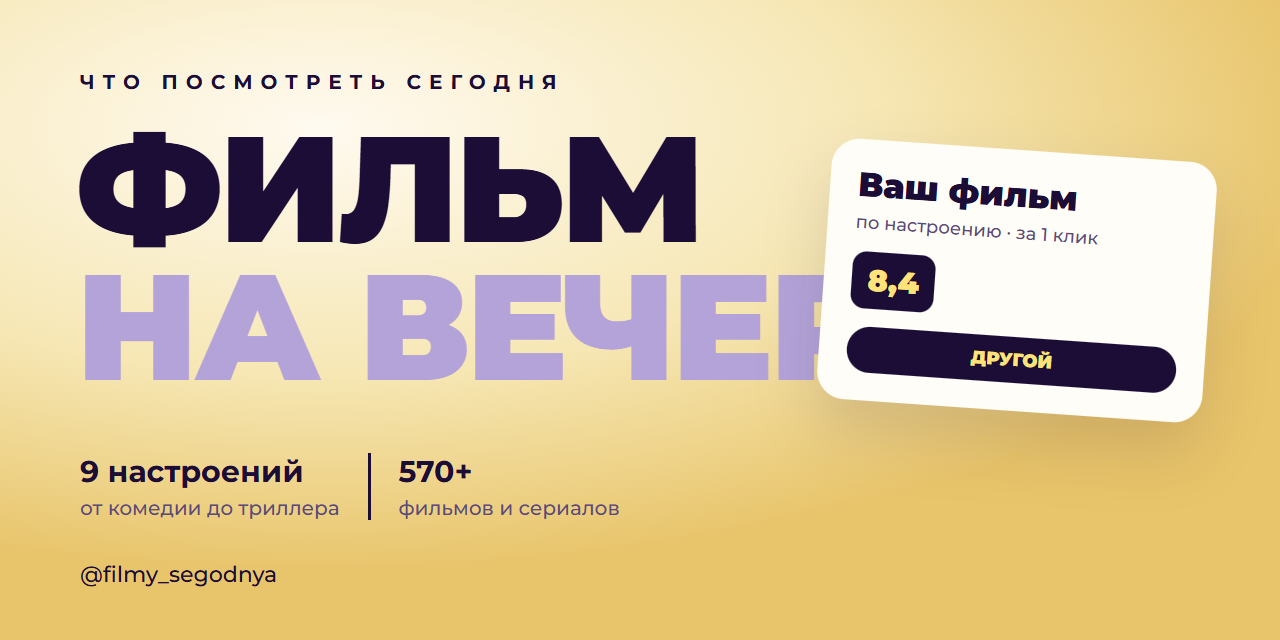
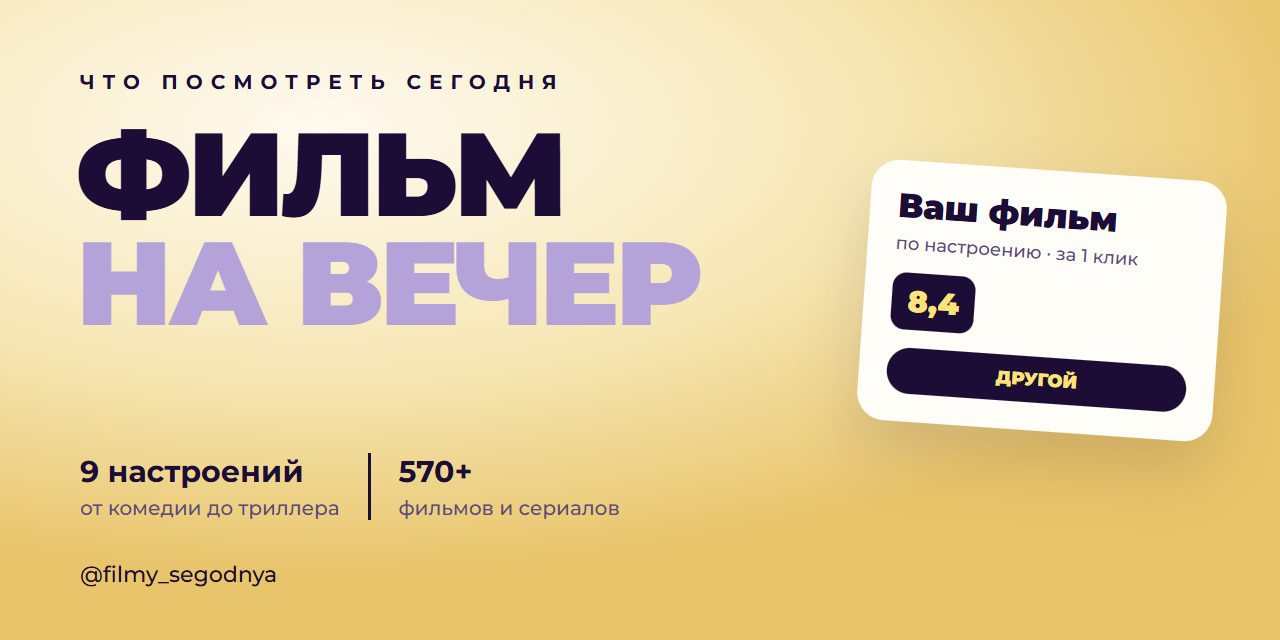
Превью без наложения

Changed region(s): [[0.0625, 0.1875, 0.9688, 0.6875]]

diff --git a/src/preview.html b/src/preview.html
@@ -1,11 +1,11 @@
 <!doctype html><html><head><meta charset="utf-8"><link href="https://fonts.googleapis.com/css2?family=Montserrat:wght@500;700;900&display=swap" rel="stylesheet"><style>
 html,body{margin:0}body{width:1280px;height:640px;overflow:hidden;font-family:Montserrat;color:#1b0d36;background:radial-gradient(ellipse 80% 70% at 25% 20%,#fffaf0 0%,#f6e7b4 55%,#e8c46a 100%);position:relative}
 .k{position:absolute;left:80px;top:70px;font-weight:700;font-size:20px;letter-spacing:8px}
-h1{position:absolute;left:76px;top:120px;margin:0;font-weight:900;font-size:150px;line-height:.92;letter-spacing:-4px}h1 span{display:block;color:#b4a3d8}
+h1{position:absolute;left:76px;top:120px;margin:0;font-weight:900;font-size:118px;line-height:.92;letter-spacing:-4px}h1 span{display:block;color:#b4a3d8}
 .r{position:absolute;left:80px;bottom:120px;display:flex}.i{padding:0 28px;border-left:3px solid #1b0d36}.i:first-child{padding-left:0;border:0}
 .i b{display:block;font-size:30px;font-weight:700}.i small{display:block;font-size:20px;color:#5b4a7a;margin-top:6px}
 .f{position:absolute;left:80px;bottom:52px;font-size:22px;font-weight:500}
-.card{position:absolute;right:70px;top:150px;width:330px;background:#fffdf7;border-radius:28px;padding:28px;box-shadow:0 30px 60px #1b0d3622;transform:rotate(4deg)}
+.card{position:absolute;right:60px;top:170px;width:300px;background:#fffdf7;border-radius:28px;padding:28px;box-shadow:0 30px 60px #1b0d3622;transform:rotate(4deg)}
 .card .t{font-size:34px;font-weight:900;line-height:1}.card .m{margin-top:10px;font-size:18px;color:#5b4a7a}.card .rt{margin-top:18px;display:inline-block;background:#1b0d36;color:#ffe27a;border-radius:14px;padding:10px 16px;font-weight:900;font-size:30px}
 .card .bt{margin-top:18px;background:#1b0d36;color:#ffe27a;border-radius:30px;padding:12px;text-align:center;font-weight:800;font-size:18px}
 </style></head><body><div class="k">ЧТО ПОСМОТРЕТЬ СЕГОДНЯ</div><h1>ФИЛЬМ<span>НА ВЕЧЕР</span></h1>
